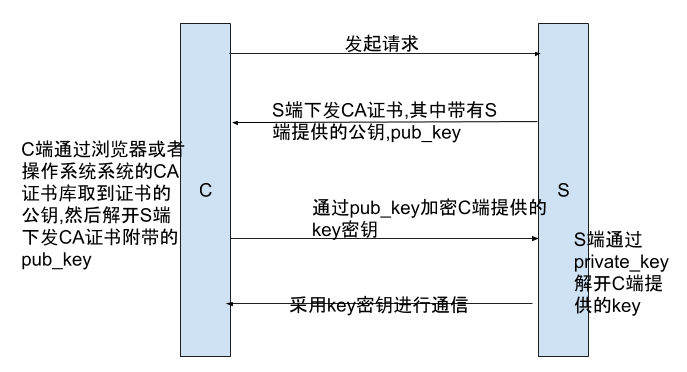
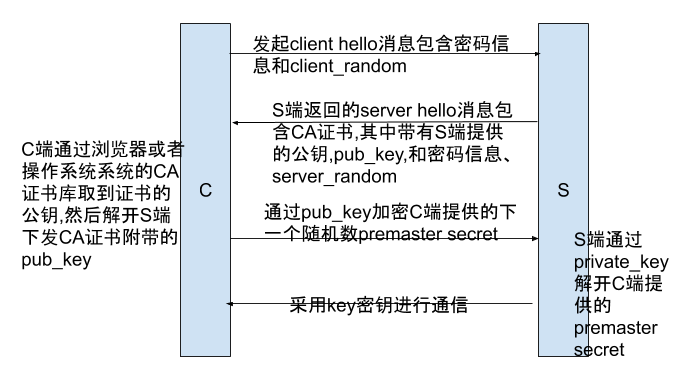
update "capture message"

diff --git a/_posts/technology/crawler/2020-12-13-capture-message.md b/_posts/technology/crawler/2020-12-13-capture-message.md
@@ -69,8 +69,8 @@ signapk工具签名时使用的是pk8,x509.pem文件
 ### *抓包原理*{:.header3-font}
 &emsp;&emsp;抓包软件通过通过这样一种模式来实现抓包的:客户端 <-->中间人<--->服务端
 ![arch]({{site.baseurl}}/asset/crawler/ssl_tsl单向认证.png){: .center-image }_`ssl_tsl单向认证`_
-&emsp;&emsp;单向认证中是对于服务端的认证，所以为了通过认证服务端会下发一份CA证书给客户端校验，CA证书中包含了服务端的公钥pub_key等其他信息。通过了校验之后，客户端就会将自己的密钥key用pub_key加密发给服务端。服务端用private_key解密，然后用密钥key进行通过。期间服务端使用了非对称加密pub_key、private_key，客户端提供的密钥key是对称加密，解密CA证书使用了操作系统或者浏览器提供的CA证书公钥,CA证书密钥也是非对称，服务器需要通过CA机构(CA秘钥)获取加密之后的证书
+&emsp;&emsp;单向认证中是对于服务端的认证，所以为了通过认证服务端会下发一份CA证书给客户端校验，CA证书中包含了服务端的公钥pub_key等其他信息。通过了校验之后，客户端就会将自己的密钥premaster secert用pub_key加密发给服务端。服务端用private_key解密，然后双方用密钥key(由client random+server random+premaster secret共同生成)进行通过。期间服务端使用了非对称加密pub_key、private_key，客户端提供的密钥key是对称加密，解密CA证书使用了操作系统或者浏览器提供的CA证书公钥,CA证书密钥也是非对称，服务器需要通过CA机构(CA秘钥)获取加密之后的证书
 
-&emsp;&emsp;双向认证是对于服务端和客户端的认证，为了验证客户端，在客户端校验完服务端的证书之后，客户端也要发送一份自己的证书给服务端校验。当服务端校验通过同时告知客户端加密方案，客户端就会发送密钥key给服务端，然后通信
+&emsp;&emsp;双向认证是对于服务端和客户端的认证，为了验证客户端，在客户端校验完服务端的证书之后，客户端也要发送一份自己的证书给服务端校验。当服务端校验通过同时告知客户端加密方案，客户端就会发送密钥premaster secert给服务端，然后通信
 
 &emsp;&emsp;Fiddler/Charles使用了Http代理进行抓包,Wireshark/tcpdump使用了网卡抓包，所以运行Wireshark的机器要要有一张无线网卡(360无线网卡)，用来给手机当做热点，这样才能抓到手机上面的包。
